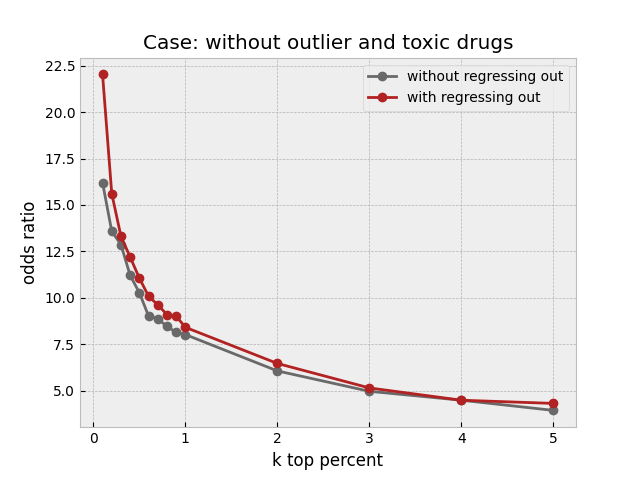
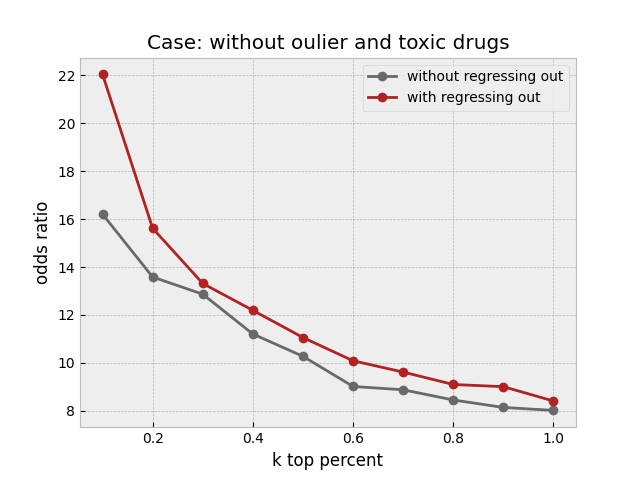
update plots

diff --git a/create_figure.py b/create_figure.py
@@ -1,6 +1,6 @@
 import matplotlib.pyplot as plt
 plt.style.use('bmh')
-k = [0.1,0.2,0.3,0.4,0.5,0.6, 0.7,0.8,0.9,1,2,3,4,5]
+k = [0.1,0.2,0.3,0.4,0.5,0.6, 0.7,0.8,0.9,1]
 
 simple = [8.637380350240969, 5.919063953102612, 4.719596794833262, 4.065512002301901, 3.6781240436003153, 3.290452155292344, 3.1658011431060067, 2.985483737084289, 2.8362326916350162, 2.6648148797080506, 1.9760097314088085, 1.7896712599610547, 1.6727411108446557, 1.6264975472333334]
 simple_regress = [9.409712612166645, 6.2860447818658, 5.019241750407726, 4.243313053954107, 3.6957863782693234, 3.3490154422750833, 3.115631587673701, 2.9197353899539635, 2.709845228887418, 2.629832706389391, 2.1301432158944413, 1.8819253679757508, 1.7861383899538412, 1.694735649352968]
@@ -16,12 +16,12 @@ remove_outlier_remove_toxic_hbos_regress = [22.028520357497516, 19.1997920930383
 
 
 
-plt.plot(k,remove_outlier, marker = 'o', label ='without regressing out', color = 'dimgray')
-plt.plot(k,remove_outlier_regress,marker = 'o' ,label ='with regressing out ', color ='firebrick' )
+plt.plot(k,remove_outlier_remove_toxic[:-4], marker = 'o', label ='without regressing out', color = 'dimgray')
+plt.plot(k,remove_outlier_remove_toxic_regress[:-4],marker = 'o' ,label ='with regressing out', color ='firebrick' )
 plt.xlabel('k top percent')
 plt.ylabel('odds ratio')
 # plt.title('title')
 plt.legend()
 # plt.show()
-plt.title('Case: without outlier drugs')
-plt.savefig('figures/plots/remove_outlier_vs_remove_outlierregress.png')
+plt.title('Case: without oulier and toxic drugs')
+plt.savefig('figures/plots/remove_outlier_toxic_vs_remove_outlier_toxicregress.png')
